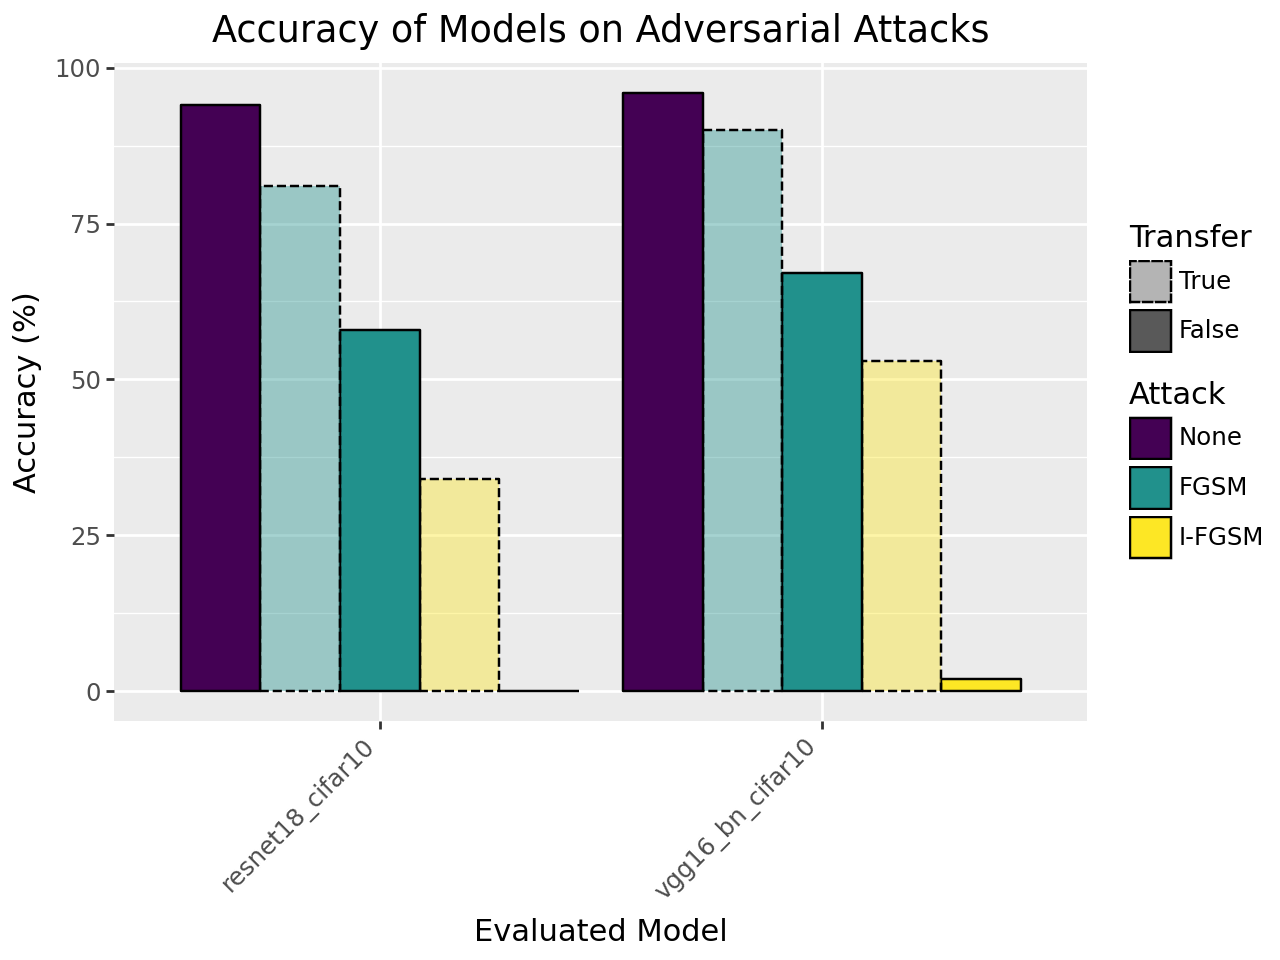
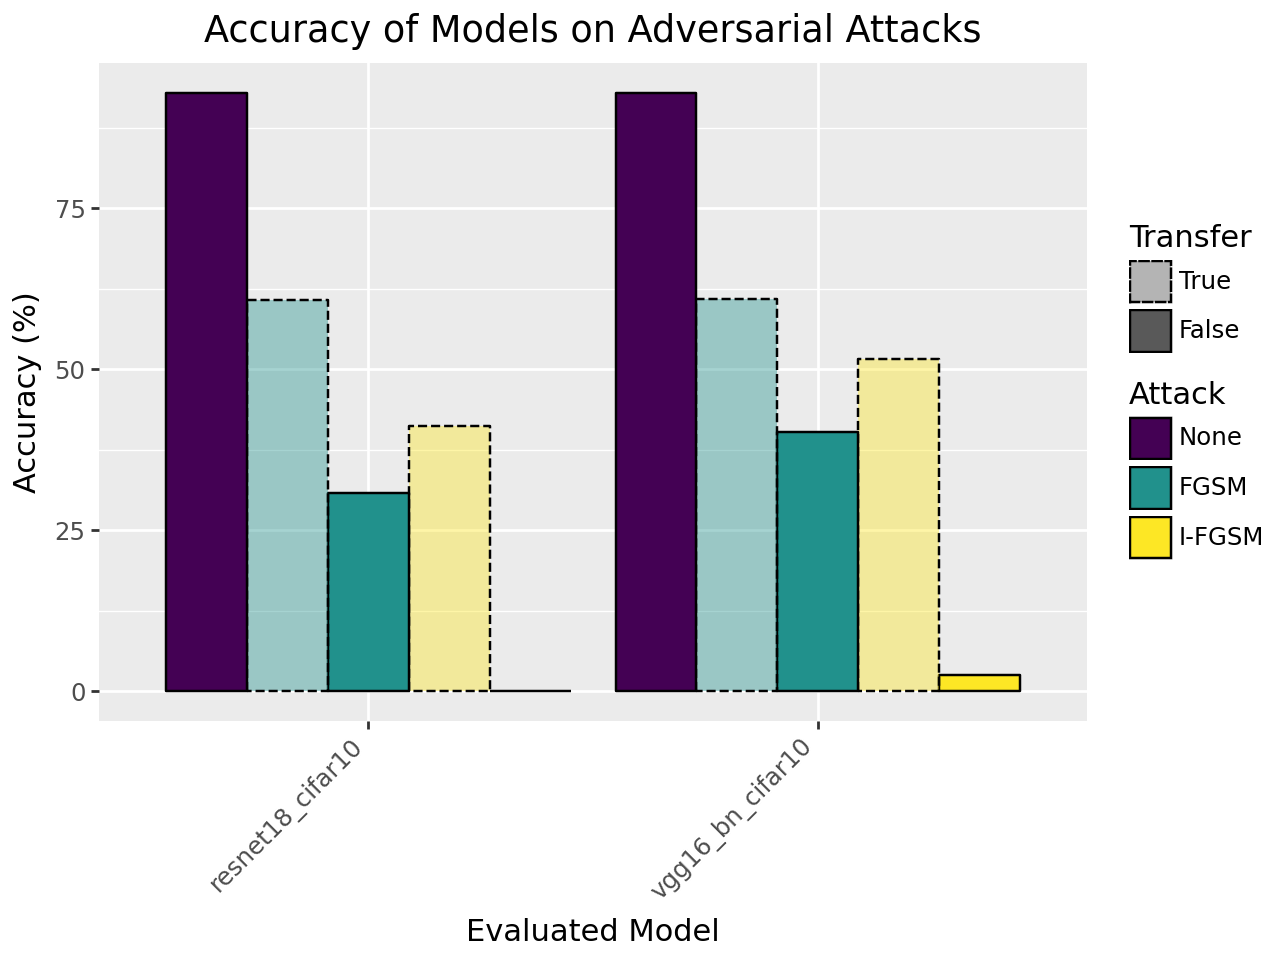
added experiment detials to readme file

diff --git a/README.md b/README.md
@@ -23,19 +23,92 @@ The goals include:
 
 ---
 
-## 🖼 Illustrative Examples
+## Models and Algorithms
 
-<img src="./images/model_evaluation.png" alt="Project Banner" width="40%">
+We train adversarial attack samples against two models: **resnet18_cifar10** and **vgg16_bn_cifar10**.
+
+- **ResNet-18 (CIFAR-10)**:  
+  Based on the [ResNet architecture](https://arxiv.org/abs/1512.03385), ResNet-18 introduces residual connections that help train deeper neural networks by mitigating the vanishing gradient problem. The version used here is trained on CIFAR-10 and available via [Hugging Face](https://huggingface.co/edadaltocg/resnet18_cifar10). 
+
+- **VGG16 with Batch Normalization (CIFAR-10)**:  
+  The [VGG16 architecture](https://arxiv.org/abs/1409.1556) is characterized by its deep, sequential convolutional layers with small (3x3) filters. The batch normalization variant (VGG16_BN) improves training stability and convergence. The model used here is also trained on CIFAR-10 and available on [Hugging Face](https://huggingface.co/edadaltocg/vgg16_bn_cifar10). 
+
+We produce attack samples by FGSM and I-FGSM algorithms:
+
+- **FGSM (Fast Gradient Sign Method):**  
+  FGSM is a single-step attack that perturbs the input image in the direction of the gradient of the loss with respect to the input. The adversarial example \( x_{\text{adv}} \) is generated as:
+  
+  \[
+  x_{\text{adv}} = x + \epsilon \cdot \text{sign}(\nabla_x J(\theta, x, y))
+  \]
+  
+  where:
+  - \( x \) is the original input image,
+  - \( y \) is the true label,
+  - \( \theta \) are the model parameters,
+  - \( J(\theta, x, y) \) is the loss function,
+  - \( \epsilon \) controls the magnitude of the perturbation.
+
+   See the original paper: [Explaining and Harnessing Adversarial Examples (Goodfellow et al., 2014)](https://arxiv.org/abs/1412.6572)
+
+- **I-FGSM (Iterative Fast Gradient Sign Method):**  
+  I-FGSM applies FGSM multiple times with a small step size, clipping the result after each step to ensure the perturbation stays within the allowed range. The adversarial example after \( N \) iterations is:
+  
+  \[
+  x^{(0)}_{\text{adv}} = x
+  \]
+  \[
+  x^{(n+1)}_{\text{adv}} = \text{Clip}_{x, \epsilon} \left\{ x^{(n)}_{\text{adv}} + \alpha \cdot \text{sign} \left( \nabla_x J(\theta, x^{(n)}_{\text{adv}}, y) \right) \right\}
+  \]
+  
+  where:
+  - \( \alpha \) is the step size for each iteration,
+  - \( \text{Clip}_{x, \epsilon} \) ensures the adversarial example stays within an \( \epsilon \)-ball of the original input \( x \).
+
+  See the original paper: [Adversarial Examples in the Physical World (Kurakin et al., 2017)](https://arxiv.org/abs/1607.02533)
+
+## Accuracy Comparison
+
+<img src="./images/model_evaluation.png" alt="Project Banner" width="80%">
+
+The bar chart above summarizes the accuracy of both ResNet-18 and VGG16_BN models on the CIFAR-10 test set under different adversarial scenarios:
+
+- **None:** Accuracy on clean (unperturbed) images.
+- **FGSM:** Accuracy after applying the Fast Gradient Sign Method attack.
+- **I-FGSM:** Accuracy after applying the Iterative FGSM attack.
+
+Each group of bars shows results for a specific model. The color of the bars indicates the type of attack, while the border style distinguishes between direct attacks (solid) and transfer attacks (dashed).  
+- **Direct attack:** Adversarial examples are generated and evaluated on the same model.
+- **Transfer attack:** Adversarial examples are generated on one model and evaluated on the other, testing the transferability of adversarial examples.
+
+
+The hyperparameters used for this run were:
+- **Epsilon, \(\epsilon\) = 4** (in image space [0, 255])
+- **Alpha \(\alpha\) = 1** (in image space [0, 255], for I-FGSM step size)
+- **Iterations for I-FGSM = 10**
+
+Note: Since the network inputs are normalized, both epsilon and alpha are scaled accordingly to match the normalized data range during attack generation.
+
+**Evaluation protocol:**  
+Accuracy was computed on a random selection of 50 images from each of the 10 CIFAR-10 classes (total 500 images). This is to ensure class balance while keeping computaitonal cost low.
+
+
+
+**Observations:**
+- Both models achieve high accuracy on clean data.
+- Accuracy drops significantly under FGSM attacks, and even more so under I-FGSM, demonstrating the increased effectiveness of iterative attacks.
+- Transfer attacks (dashed bars) also reduce accuracy, though the effect may be less severe than direct attacks.
+
+
 
 
 ---
 
-
 ## 🚀 How to Run
 
-### Google Colab (Recommended)
+### Google Colab (Good for GPU usage)
 
-This project is fully compatible with Google Colab for easy setup and GPU acceleration.
+This project is fully compatible with Google Colab for easy GPU use.
 
 1. Open the Colab notebook here:  
    [![Open In Colab](https://colab.research.google.com/assets/colab-badge.svg)](https://colab.research.google.com/github/HugoSave/adversarial-image-attacks/blob/main/AdversarialAttacks.ipynb)
@@ -46,7 +119,6 @@ This project is fully compatible with Google Colab for easy setup and GPU accele
    - Generate adversarial datasets  
    - Run evaluations and visualize results  
 
-3. Feel free to tweak parameters interactively for your own experiments.
 
 ---
 
